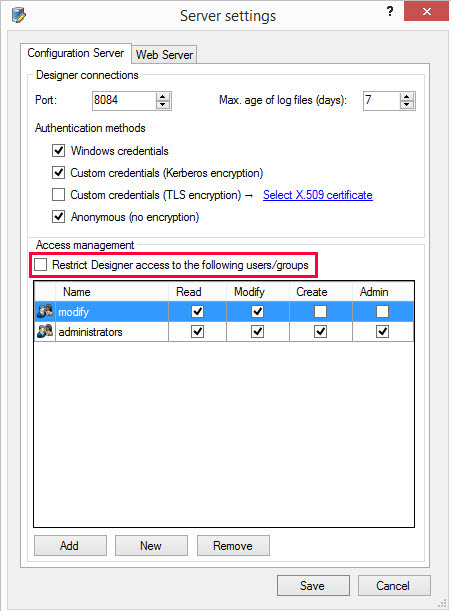
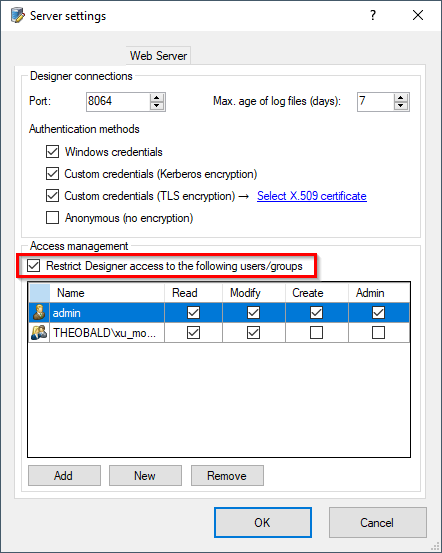
XU:EN: Access Restrictions - Source Settings hinzugefügt

Changed region(s): [[0.0, 0.0, 1.0, 1.0], [0.4706, 0.1537, 0.7647, 0.2152]]

diff --git a/_includes/_content/en/xu-specific/security-xu3/access-management.md b/_includes/_content/en/xu-specific/security-xu3/access-management.md
@@ -24,4 +24,9 @@ Access restrictions can be performend on extraction level, as well. Access restr
 
 ![Server-Settings_](/img/content/XU_Extraction_Security.png){:class="img-responsive"}
 
+## Source Settings
+Access restrictions can be performend on source level, as well. Access restrictions for sources override restrictions made on server level.
+
+![Server-Settings_](/img/content/XU_Extraction_Security2.png){:class="img-responsive"}
+
 
